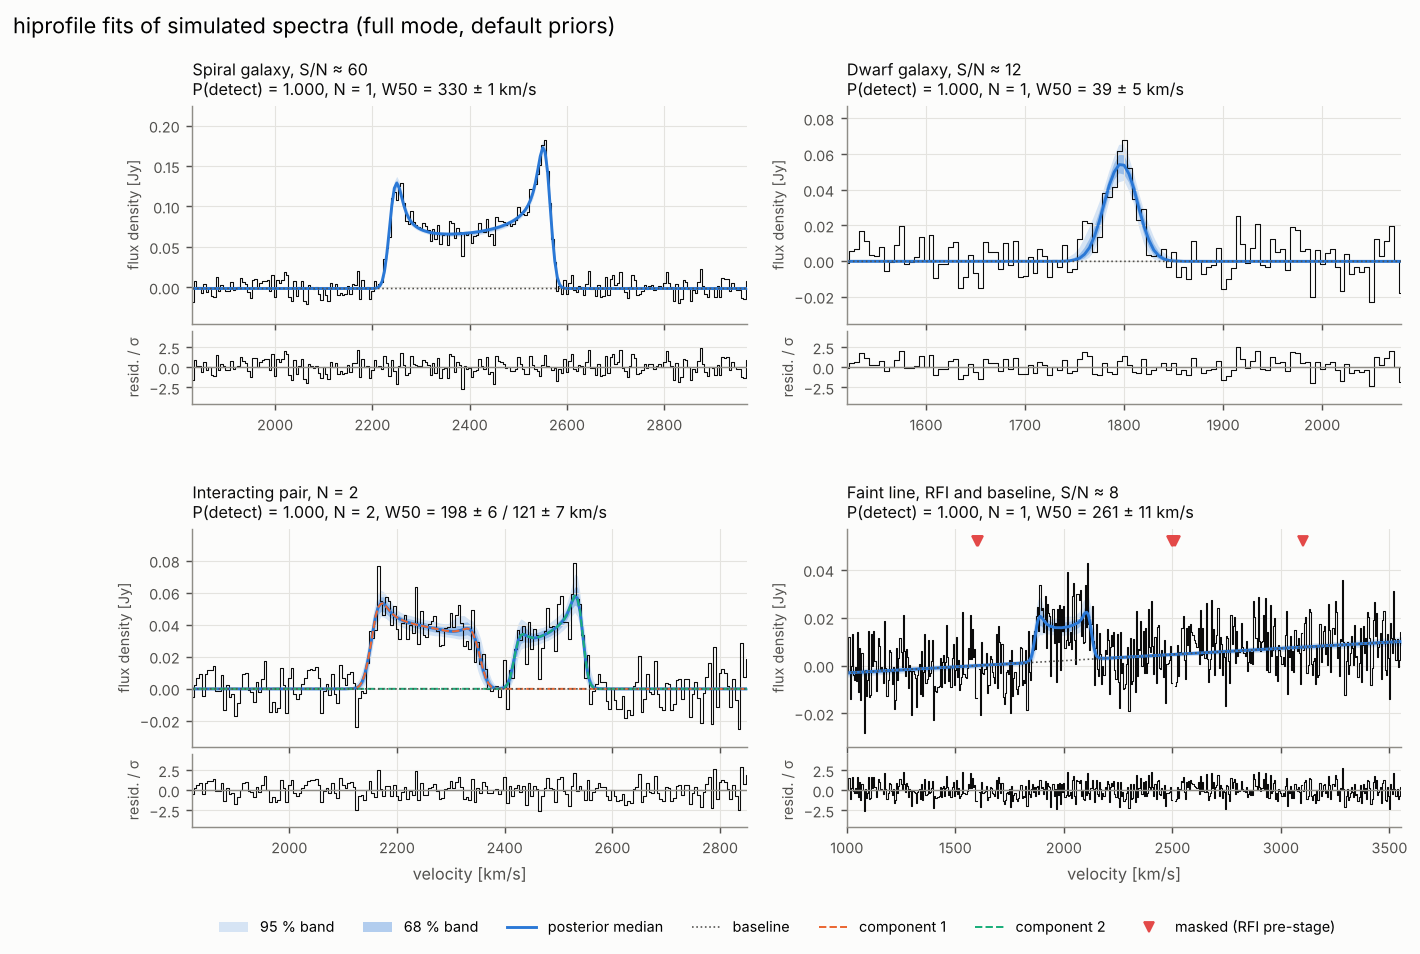
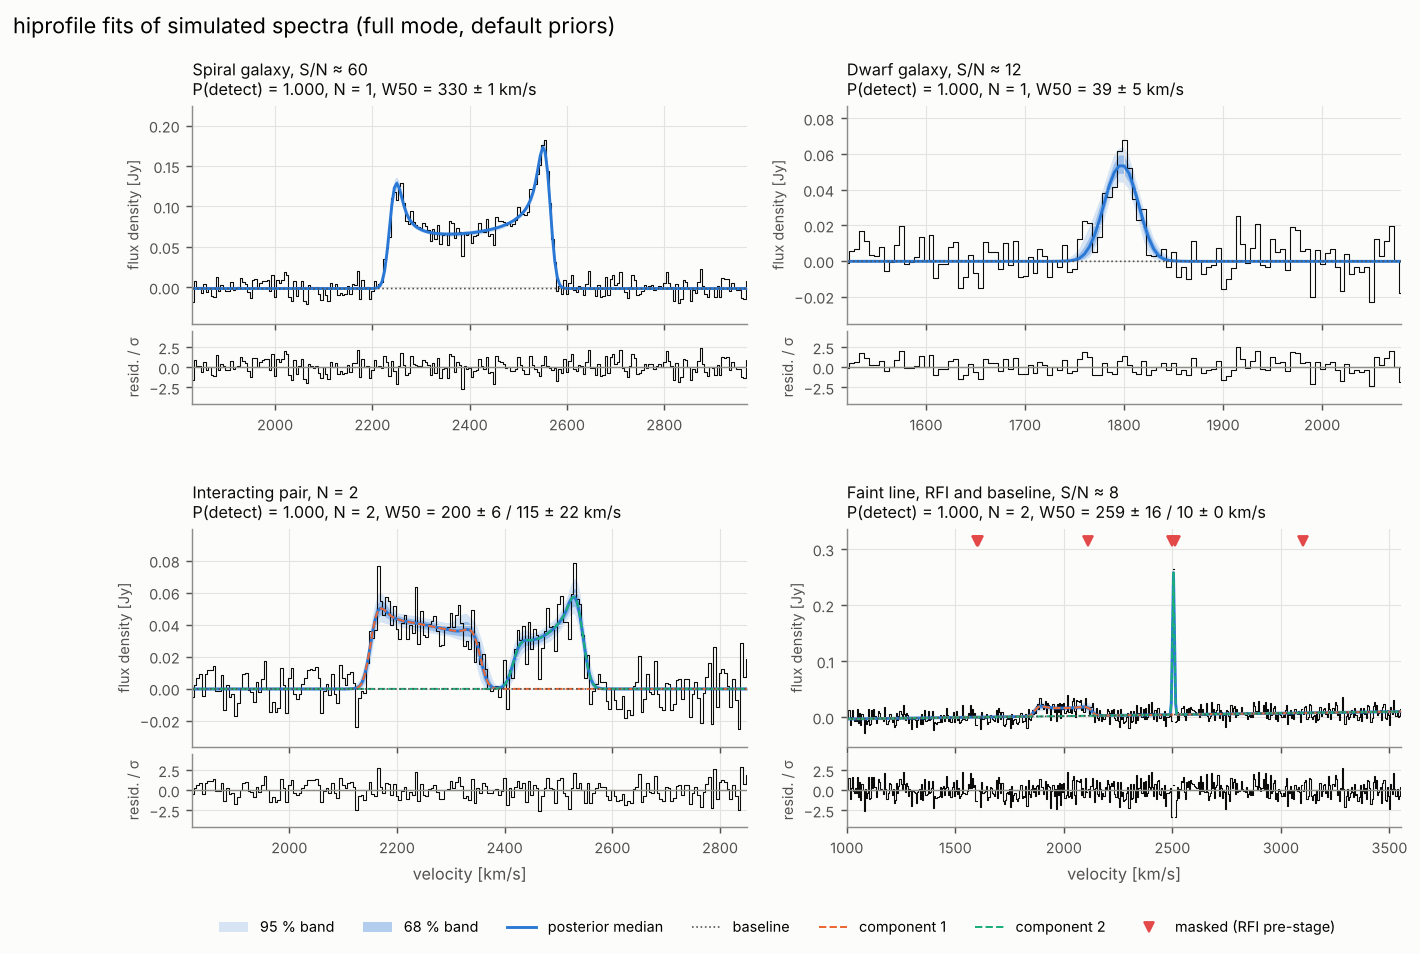
RFI pre-stage: no sub-channel lines, closed mask holes, unresolved flag
The robust pre-fit used the full width prior and could explain a bright
spike as a two-channel "line", which hid the spike's centre from the mask
and later drove the main fit to a spurious second component. The pre-stage
prior for delta_v_rand now has a floor of min_sigma_channels (2) channels,
single-channel holes between masked channels are closed, and a component
with W50 below min_w50_channels is flagged as unresolved. Regression test
with a three-channel burst next to a faint line.

Claude-Session: https://claude.ai/code/session_01HNuVsUUJVtD1RaQHWi7F3J

diff --git a/hiprofile/inference/fit.py b/hiprofile/inference/fit.py
@@ -285,7 +285,15 @@ def prepare(spectrum: Spectrum, config: Config, seed: int) -> FitContext:
 
 def apply_rfi(ctx: FitContext) -> None:
     cfg = ctx.config.rfi
-    prior = build_prior(("profile",), ctx.config.priors, ctx.spectrum.velocity)
+    # The pre-stage line model must not be narrower than a few channels: a
+    # bright spike fitted as a "line" would hide its own centre from the mask.
+    pr = ctx.config.priors
+    sig = pr.delta_v_rand
+    floor = cfg.min_sigma_channels * ctx.grid.dv
+    high = sig.high if sig.high is not None else 60.0
+    low = max(sig.low if sig.low is not None else 4.0, min(floor, 0.9 * high))
+    pre_priors = pr.model_copy(update={"delta_v_rand": sig.model_copy(update={"low": low})})
+    prior = build_prior(("profile",), pre_priors, ctx.spectrum.velocity)
     res = robust_prefit(
         ctx.spectrum.flux,
         ctx.grid,
@@ -301,6 +309,10 @@ def apply_rfi(ctx: FitContext) -> None:
     )
     ctx.rfi = res
     bad = res.q > cfg.threshold
+    if cfg.close_holes and bad.size > 2:
+        hole = np.zeros_like(bad)
+        hole[1:-1] = bad[:-2] & bad[2:]
+        bad |= hole
     if not bad.any():
         return
     if cfg.action == "mask":
@@ -588,6 +600,10 @@ def evaluate(ctx: FitContext, out: FitResult) -> None:
             (y - out.baseline_median[gi]), line[gi], ctx.noise.sigma, width, ctx.grid.dv
         )
         m["ess"] = dm.kish_ess(post.weights)
+        s50 = post.summary()
+        widths = [s50[f"W50_{i}"] for i in range(1, n_post + 1) if f"W50_{i}" in s50]
+        if widths:
+            m["w50_min_channels"] = float(min(widths) / ctx.grid.dv)
         prior = ctx.prior(n_post)
         edge_vals = []
         bounds = prior.edge_bounds()
@@ -611,7 +627,6 @@ def evaluate(ctx: FitContext, out: FitResult) -> None:
             m["logz_check_sigma"] = abs(ev.log_z - ev.log_z_check) / max(
                 math.hypot(ev.log_z_err, ev.log_z_check_err), 1e-3
             )
-        s50 = post.summary()
         if "v_sys_1" in s50 and "W20_1" in s50:
             # Classical measurement in a window around the line, as a by-eye
             # window would be chosen: +-(W20/2 + 25 % + 2 channels)
@@ -633,6 +648,7 @@ def evaluate(ctx: FitContext, out: FitResult) -> None:
             "negative_amplitudes",
             "wiggle",
             "prior_dominated",
+            "unresolved",
         ):
             out.flags[key] = False
 

diff --git a/tests/test_fit.py b/tests/test_fit.py
@@ -5,6 +5,7 @@ from hiprofile import Spectrum
 from hiprofile.config import Config
 from hiprofile.inference.fit import ModelEvidence, fit_spectrum, model_probabilities, spectrum_seed
 from hiprofile.io.results import read_result, write_result
+from hiprofile.model import profile
 
 QUICK = Config().updated(sampler={"mode": "quick"}, model={"k_min": 0, "k_max": 1, "n_max": 1})
 
@@ -90,3 +91,18 @@ def test_full_mode(line_spectrum):
     q = fit_spectrum(spec, QUICK)
     for a, b in zip(res.evidences, q.evidences, strict=True):
         assert abs(a.log_z - b.log_z) < 1.0
+
+
+def test_rfi_burst_is_fully_masked_and_not_fitted_as_a_line(grid, rng):
+    """A three-channel burst must be masked completely, not fitted as a narrow second line."""
+    truth = np.array([2000.0, 180.0, 12.0, 0.15, 4.0, 0.25])
+    y = profile(grid, truth) + 0.02 * rng.normal(size=grid.n_chan)
+    burst = [120, 121, 300, 301, 302, 380]
+    y[burst] += np.array([0.3, 0.5, 0.4, 0.9, 0.4, 0.3])
+    spec = Spectrum(grid.velocity, y, sigma=np.full(grid.n_chan, 0.02), id="burst")
+    res = fit_spectrum(spec, QUICK.updated(model={"n_max": 2}))
+    assert res.status == "ok", res.error
+    assert set(np.flatnonzero(res.mask)) >= set(burst)
+    assert res.best_n == 1
+    assert not res.flags["unresolved"]
+    assert abs(res.posteriors[1].summary()["v_ctr_1"] - truth[0]) < 20

diff --git a/hiprofile/config.py b/hiprofile/config.py
@@ -138,6 +138,13 @@ class RFIConfig(_Base):
     action: Literal["mask", "inflate"] = "mask"
     n_iter: int = Field(8, ge=1)
     flag_fraction: float = Field(0.05, gt=0, le=1)
+    min_sigma_channels: float = Field(
+        2.0,
+        gt=0,
+        description="Smallest Delta v_rand (in channels) of the line model in the pre-stage, so that a "
+        "spike of one or two channels cannot be absorbed as a line",
+    )
+    close_holes: bool = Field(True, description="Also mask a single channel between two masked ones")
 
 
 class SamplerConfig(_Base):
@@ -164,6 +171,9 @@ class DiagnosticsConfig(_Base):
     edge_mass: float = 0.2
     min_ess: float = 500.0
     logz_sigma: float = 3.0
+    min_w50_channels: float = Field(
+        2.0, description="Flag `unresolved` when a component's W50 is narrower than this many channels"
+    )
     min_constraint: float = Field(
         0.3,
         description="Flag `prior_dominated` when the posterior 16-84 % width of delta_v is wider than "

diff --git a/hiprofile/diagnostics/flags.py b/hiprofile/diagnostics/flags.py
@@ -20,6 +20,7 @@ FLAG_NAMES = (
     "rfi",
     "sampler_budget",
     "prior_dominated",
+    "unresolved",
     "failed",
 )
 
@@ -48,6 +49,7 @@ def compute_flags(
         "rfi": get("rfi_fraction", 0.0) > rfi_fraction_max,
         "sampler_budget": bool(metrics.get("sampler_budget", False)),
         "prior_dominated": get("constraint_delta_v", 1.0) < cfg.min_constraint,
+        "unresolved": get("w50_min_channels", np.inf) < cfg.min_w50_channels,
         "failed": bool(metrics.get("failed", False)),
     }
     return {k: bool(v) for k, v in flags.items()}

diff --git a/docs/outputs.md b/docs/outputs.md
@@ -74,6 +74,7 @@ crossings.
 | `logz_check_sigma` (check mode) | `logz_mismatch` | > `logz_sigma` (3) |
 | `negative_fraction` | `negative_amplitudes` | > `negative_fraction` (0.5) |
 | `constraint_<par>` (1 − posterior/prior 16–84 % width) | `prior_dominated` | `constraint_delta_v` < `min_constraint` (0.3): the width is not measured |
+| `w50_min_channels` (narrowest component) | `unresolved` | < `min_w50_channels` (2): an RFI-like component narrower than the channel response |
 | `rfi_fraction` | `rfi` | > `rfi.flag_fraction` (0.05) |
 | `sampler_budget` | `sampler_budget` | a sampler stopped at its time / call limit (nautilus: 600 s or 10⁶ calls; options in `sampler.options`) |
 | – | `failed` | the fit raised an error |
